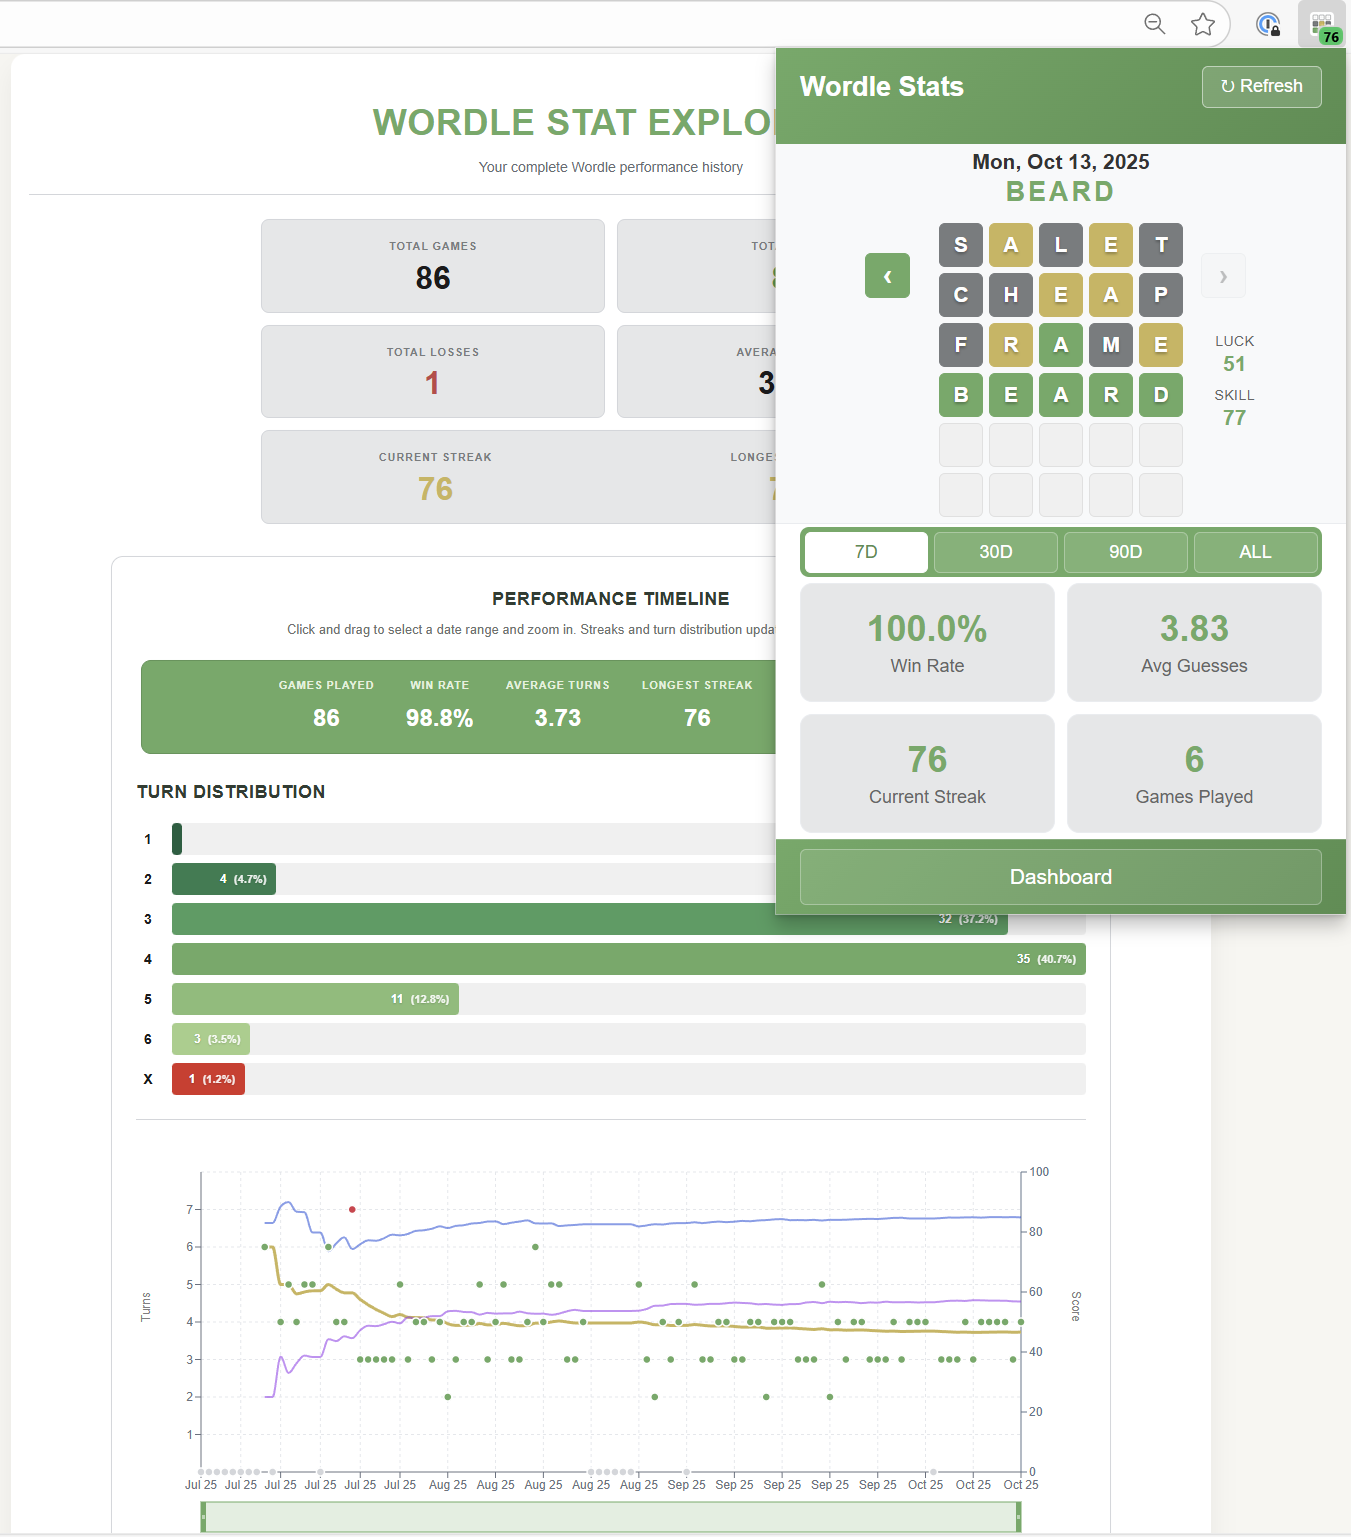
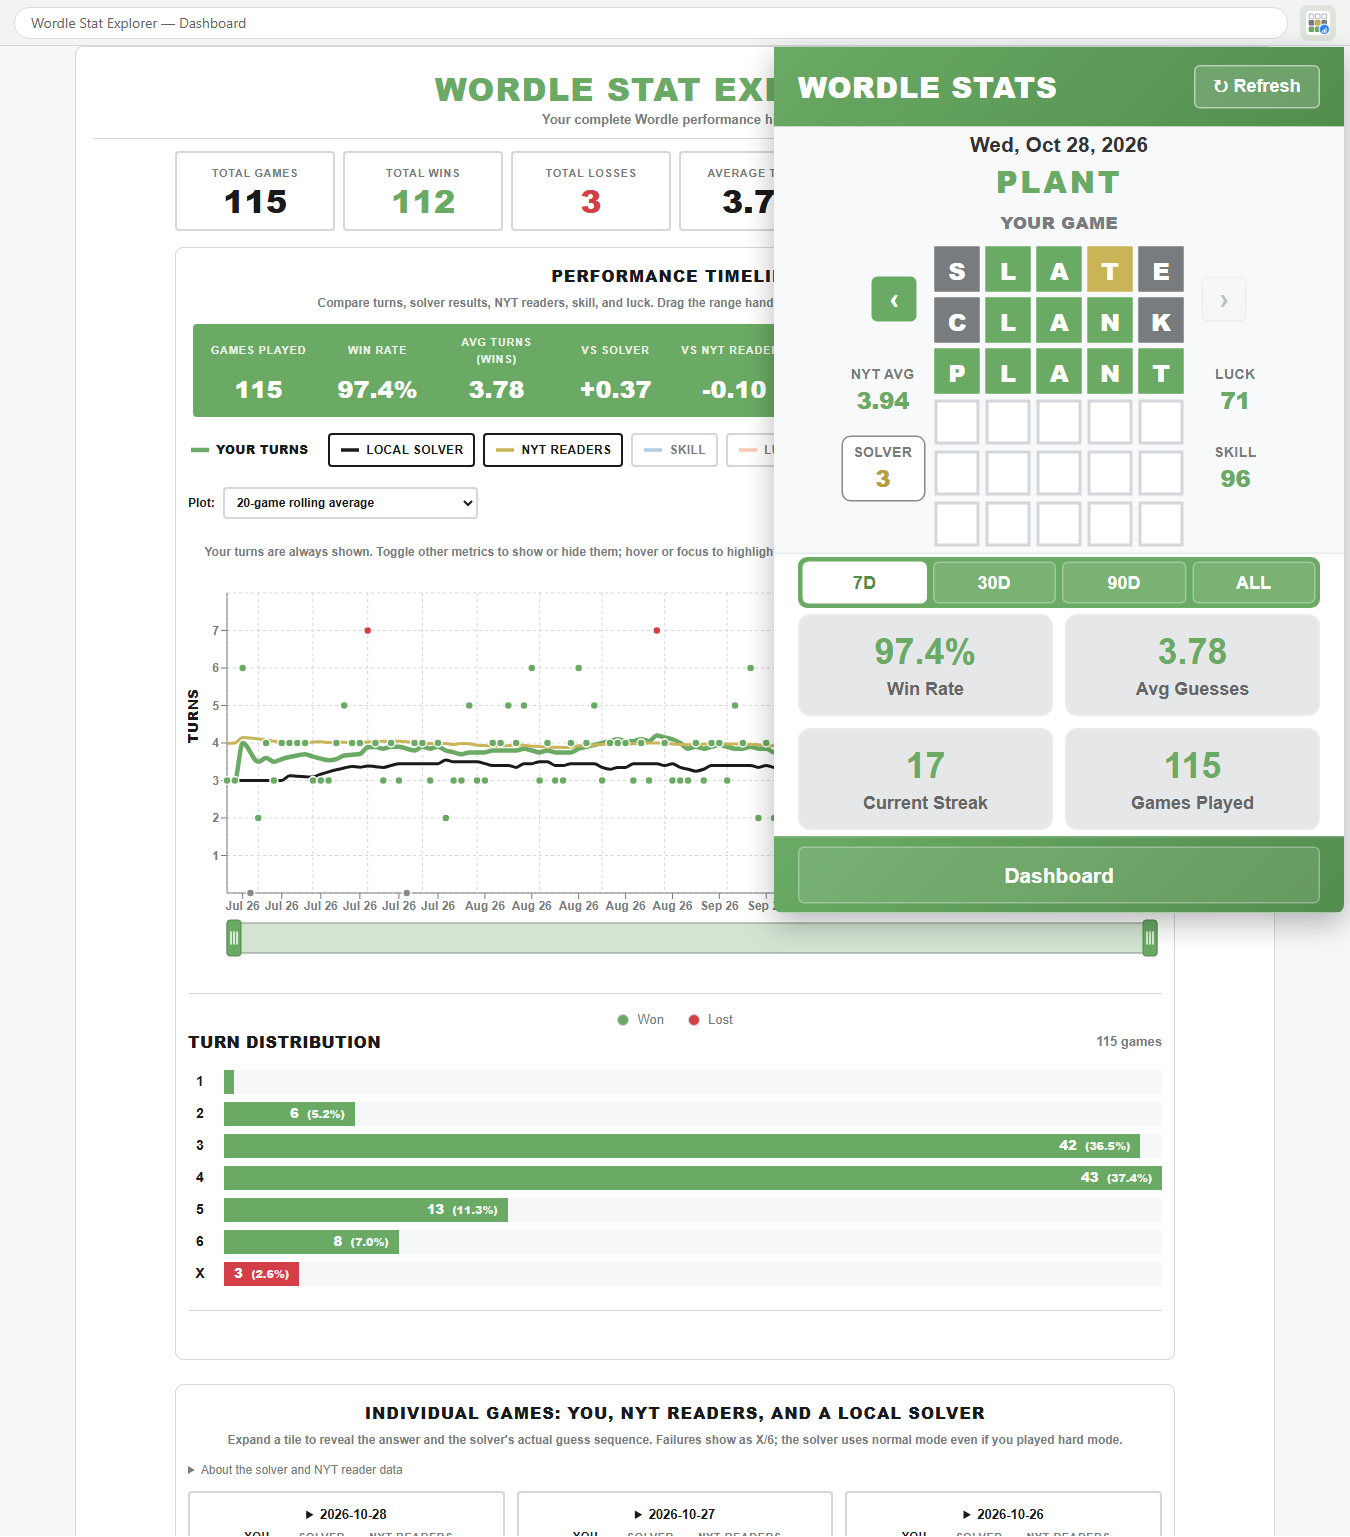
Update README screenshot for 1.1.0
Regenerate the dashboard-and-popup image from synthetic demo data and reference it by repository path instead of the old feature-branch URL.

Copilot-Session: 7816438f-e5dd-42a9-8597-f27a7ab190b5

diff --git a/README.md b/README.md
@@ -27,7 +27,7 @@ The common-answer pool uses lowercase five-letter entries from public-domain Alt
 NYT reader means load automatically from WordleBot's public per-puzzle `summary.json`, not the ordinary daily puzzle API or recent-score aggregate. The calculation matches WordleBot's reader distribution and failure penalty. Normal mode is the fallback when history does not identify a mode; viewing a daily analysis captures its mode only when the puzzle number and played guesses match your stored game. The reader mode is shown in the popup tooltip and dashboard details. Requests are anonymous, bounded, and cached; unavailable summaries remain N/A without blocking imports. Previously user-entered per-puzzle figures are kept and never overwritten by automatic retrieval. The timeline's head-to-head stats (vs Solver, vs NYT Readers) use only matching played games in the selected range; hover them for averages and coverage. Your and the local solver's failures count as seven turns for comparisons; rolling plots use available observations and connect lines across missing points.
 
 ## 📸 Screenshot
-![Wordle Stat Explorer dashboard](https://github.com/markrussinovich/wordlebotstats/blob/001-wordle-stat-explorer/listing/assets/popupanddashboard.png)
+![Wordle Stat Explorer dashboard](listing/assets/popupanddashboard.png)
 
 ## 🏗 Architecture Overview
 
